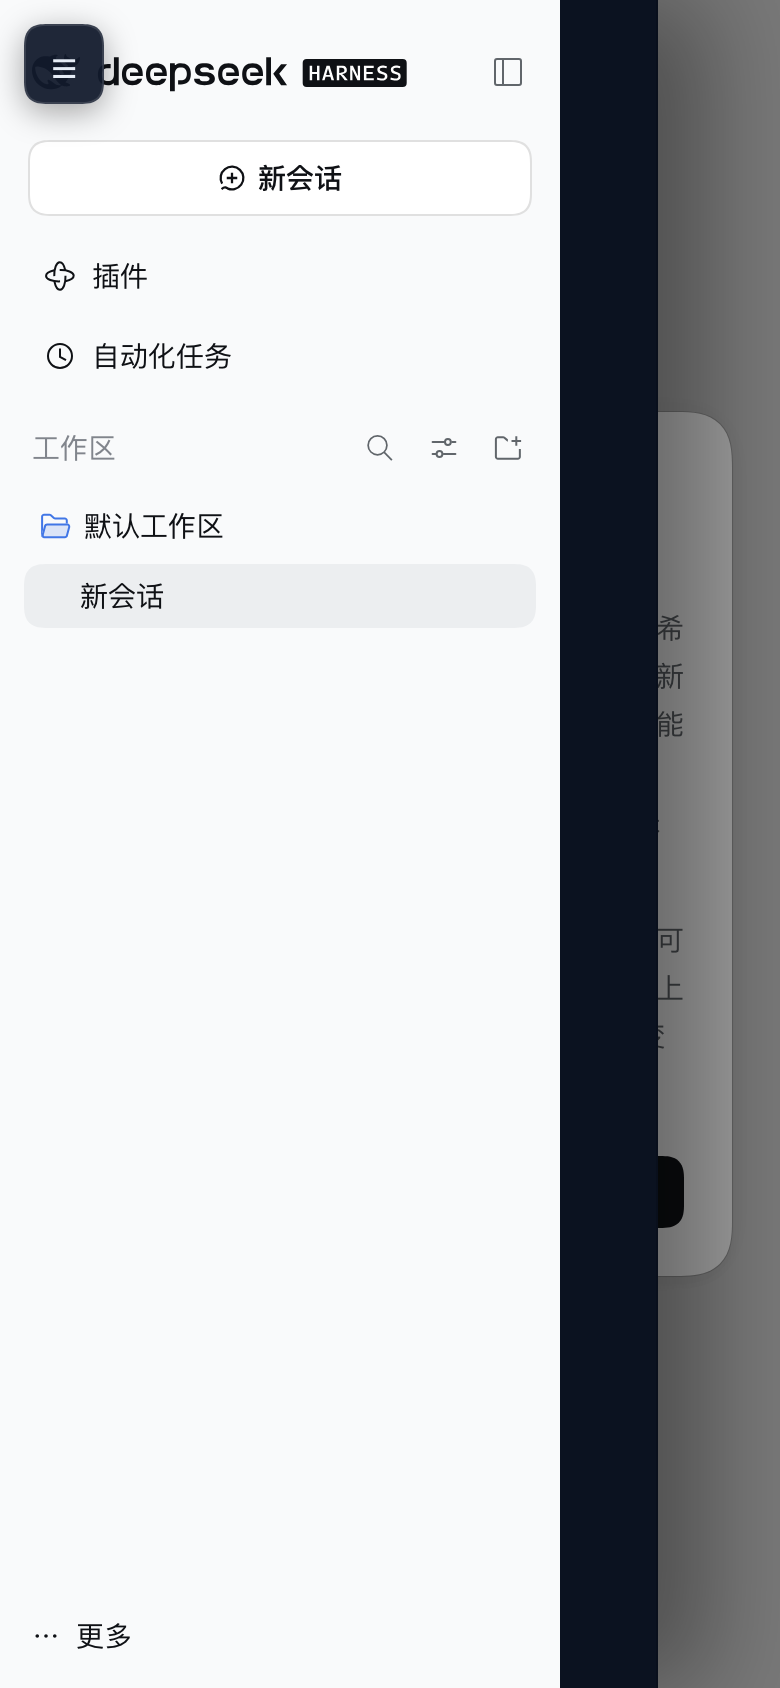
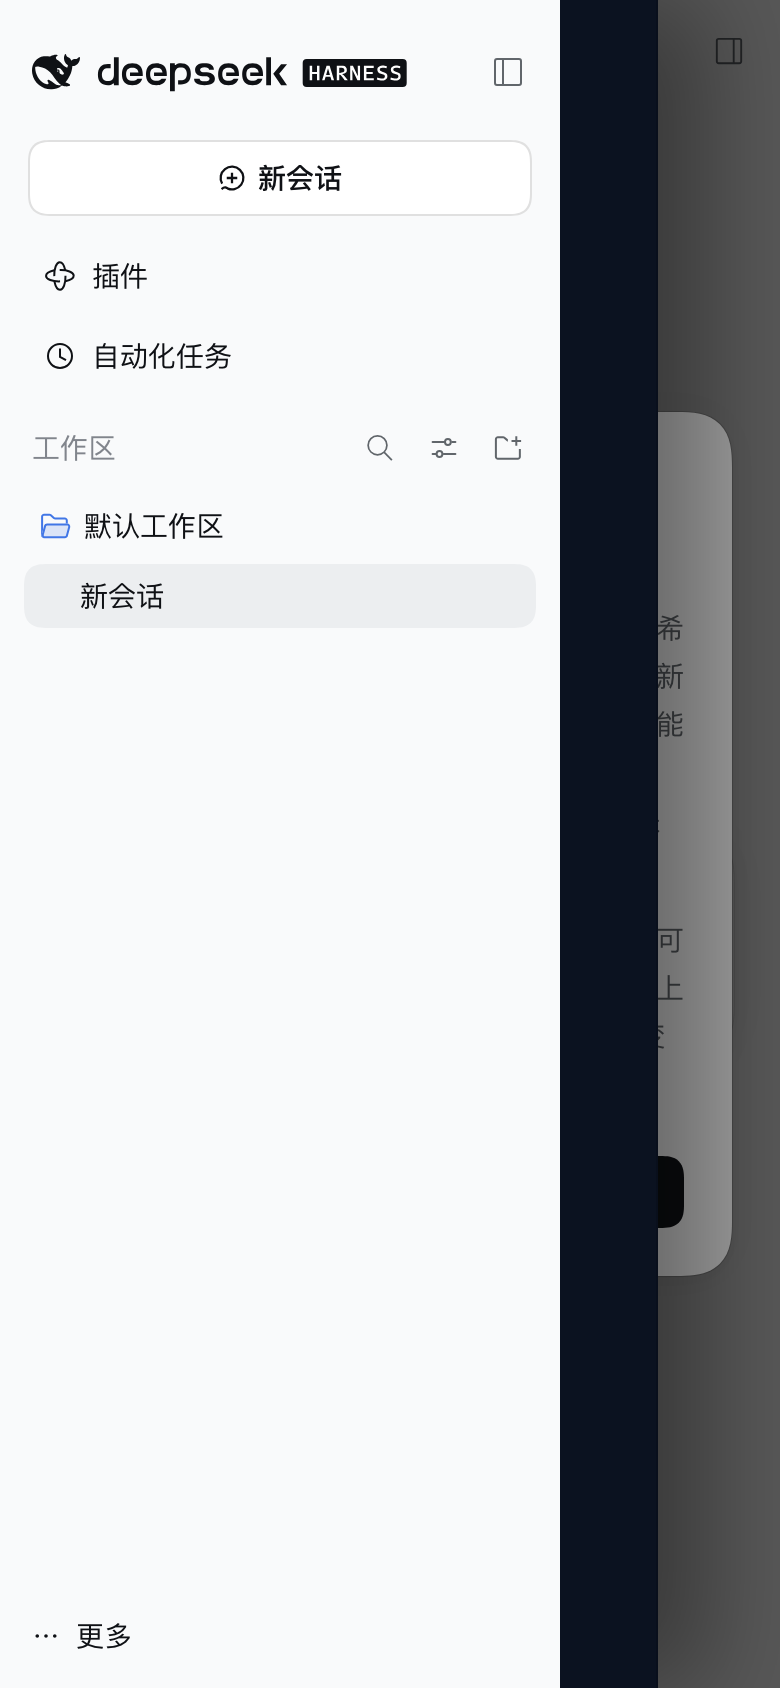
fix(app): DOM-ready mobile drawer injection, mobile single-column layout; home screen verified on iPhone

Changed region(s): [[0.8308, 0.0, 1.0, 1.0], [0.0, 0.0, 0.1538, 0.0924]]

diff --git a/dsh-remoteApp/src/lib/mobileWebShell.ts b/dsh-remoteApp/src/lib/mobileWebShell.ts
@@ -6,146 +6,146 @@
  *  2. 点击会话、功能、设置等任意侧栏项后自动收起抽屉，避免"点两次"；
  *  3. 抽屉以覆盖层出现，不挤压内容区宽度。
  *
- * 实现方式：CSS 覆盖 + 轻量 DOM 脚本（不依赖 DSH 内部 React 状态/类名哈希，
- * 只用 CSS Modules 类名的稳定后缀匹配）。若 DSH 后续改版导致选择器失效，
- * 最坏退化为普通桌面侧栏，不会影响 WebView 正常加载。
+ * 关键：脚本通过 WKUserScript `.atDocumentStart` 注入，执行时 document.body 还不存在，
+ * 因此必须等 DOMContentLoaded / body 可用后再初始化（之前版本在这里静默失败）。
+ *
+ * 选择器只用 DSH CSS Modules 类名的稳定后缀（如 _sidebarCol），不依赖哈希前缀。
+ * 若 DSH 改版选择器失效，最坏退化为普通桌面侧栏，不影响页面加载。
  */
 
-function mobileWebShellRuntime(): void {
-  const html = document.documentElement;
-  const DRAWER_CLASS = 'dsh-mobile-drawer-open';
-  const STYLE_ID = 'dsh-mobile-shell-style';
+export const MOBILE_WEB_SHELL_JS = String.raw`
+(function () {
+  if (window.__dshMobileShellInstalled) return;
+  window.__dshMobileShellInstalled = true;
 
-  if (document.getElementById(STYLE_ID)) return;
+  var DRAWER_CLASS = 'dsh-mobile-drawer-open';
+  var STYLE_ID = 'dsh-mobile-shell-style';
 
-  const style = document.createElement('style');
-  style.id = STYLE_ID;
-  style.textContent = `
-    @media (max-width: 760px) {
-      [class*="_sidebarCol"] {
-        position: fixed !important;
-        left: 0 !important;
-        top: 0 !important;
-        bottom: 0 !important;
-        width: min(84vw, 340px) !important;
-        max-width: 340px !important;
-        z-index: 9000 !important;
-        transform: translateX(-102%);
-        transition: transform 220ms ease;
-        box-shadow: 24px 0 48px rgba(0,0,0,0.35);
-        background: #0b1220 !important;
-        overflow: visible !important;
-      }
-      html.${DRAWER_CLASS} [class*="_sidebarCol"] {
-        transform: translateX(0) !important;
-      }
-      html.${DRAWER_CLASS} [class*="_centerCol"] {
-        filter: brightness(0.72);
-      }
-      .dsh-mobile-backdrop {
-        position: fixed; inset: 0; z-index: 8999;
-        background: rgba(0,0,0,0.38);
-        opacity: 0; pointer-events: none;
-        transition: opacity 200ms ease;
-      }
-      html.${DRAWER_CLASS} .dsh-mobile-backdrop { opacity: 1; pointer-events: auto; }
-      .dsh-mobile-fab {
-        position: fixed; left: 12px; top: 12px; z-index: 9001;
-        width: 40px; height: 40px; border-radius: 12px; border: 1px solid rgba(255,255,255,0.12);
-        background: rgba(17,26,44,0.94); color: #e6edf7; font-size: 19px; line-height: 1;
-        display: flex; align-items: center; justify-content: center;
-        box-shadow: 0 4px 16px rgba(0,0,0,0.35);
-      }
-      html.${DRAWER_CLASS} .dsh-mobile-fab { display: none !important; }
+  function init() {
+    if (!document.body || !document.head) {
+      setTimeout(init, 50);
+      return;
     }
-  `;
-  document.head.appendChild(style);
+    if (document.getElementById(STYLE_ID)) return;
 
-  const backdrop = document.createElement('div');
-  backdrop.className = 'dsh-mobile-backdrop';
-  const fab = document.createElement('button');
-  fab.className = 'dsh-mobile-fab';
-  fab.type = 'button';
-  fab.setAttribute('aria-label', '打开侧栏');
-  fab.textContent = '☰';
-  fab.style.display = 'none';
-  document.body.appendChild(backdrop);
-  document.body.appendChild(fab);
+    var style = document.createElement('style');
+    style.id = STYLE_ID;
+    style.textContent = [
+      '@media (max-width: 760px) {',
+      '  [class*="_sidebarCol"] {',
+      '    position: fixed !important; left: 0 !important; top: 0 !important; bottom: 0 !important;',
+      '    width: min(84vw, 340px) !important; max-width: 340px !important;',
+      '    z-index: 9000 !important; transform: translateX(-102%);',
+      '    transition: transform 220ms ease;',
+      '    box-shadow: 24px 0 48px rgba(0,0,0,0.35);',
+      '    background: #0b1220 !important; overflow: visible !important;',
+      '  }',
+      '  html.' + DRAWER_CLASS + ' [class*="_sidebarCol"] { transform: translateX(0) !important; }',
+      // DSH 用 CSS grid（sidebar, center, rightbar）。sidebar 改为 fixed 后会脱离 grid，
+      // 导致 center 落到 56px 的第一列（内容被挤成竖排）。手机端直接改成单列布局。
+      '  [class*="_frame"] { display: block !important; }',
+      '  [class*="_centerCol"] { width: 100% !important; height: 100% !important; }',
+      '  [class*="_rightbarCol"] { display: none !important; }',
+      '  html.' + DRAWER_CLASS + ' [class*="_centerCol"] { filter: brightness(0.72); }',
+      '  .dsh-mobile-backdrop {',
+      '    position: fixed; inset: 0; z-index: 8999; background: rgba(0,0,0,0.38);',
+      '    opacity: 0; pointer-events: none; transition: opacity 200ms ease;',
+      '  }',
+      '  html.' + DRAWER_CLASS + ' .dsh-mobile-backdrop { opacity: 1; pointer-events: auto; }',
+      '  .dsh-mobile-fab {',
+      '    position: fixed; left: 12px; top: 12px; z-index: 9001;',
+      '    width: 40px; height: 40px; border-radius: 12px;',
+      '    border: 1px solid rgba(255,255,255,0.12);',
+      '    background: rgba(17,26,44,0.94); color: #e6edf7;',
+      '    font-size: 19px; line-height: 1;',
+      '    display: flex; align-items: center; justify-content: center;',
+      '    box-shadow: 0 4px 16px rgba(0,0,0,0.35);',
+      '  }',
+      '  html.' + DRAWER_CLASS + ' .dsh-mobile-fab { display: none !important; }',
+      '}',
+    ].join('\n');
+    document.head.appendChild(style);
 
-  const isMobile = () => window.innerWidth <= 760;
-  const sidebar = () => document.querySelector('[class*="_sidebarCol"]') as HTMLElement | null;
-  const isOpen = () => html.classList.contains(DRAWER_CLASS);
+    var backdrop = document.createElement('div');
+    backdrop.className = 'dsh-mobile-backdrop';
+    var fab = document.createElement('button');
+    fab.className = 'dsh-mobile-fab';
+    fab.type = 'button';
+    fab.setAttribute('aria-label', '打开侧栏');
+    fab.textContent = '☰';
+    fab.style.display = 'none';
+    document.body.appendChild(backdrop);
+    document.body.appendChild(fab);
 
-  function closeDrawer(): void {
-    html.classList.remove(DRAWER_CLASS);
-  }
-
-  function openDrawer(): void {
-    const bar = sidebar();
-    if (bar) {
-      // DSH 侧栏初始可能是折叠图标栏；打开抽屉时模拟点击它自己的展开按钮。
-      const collapsed = bar.querySelector('[class*="_collapsed"]');
-      const toggle = bar.querySelector('[class*="_toggle"]') as HTMLElement | null;
-      if (collapsed && toggle) {
-        try { toggle.click(); } catch { /* ignore */ }
+    function isMobile() { return window.innerWidth <= 760; }
+    function sidebar() { return document.querySelector('[class*="_sidebarCol"]'); }
+    function isOpen() { return document.documentElement.classList.contains(DRAWER_CLASS); }
+    function closeDrawer() { document.documentElement.classList.remove(DRAWER_CLASS); }
+    function openDrawer() {
+      var bar = sidebar();
+      if (bar) {
+        var collapsed = bar.querySelector('[class*="_collapsed"]');
+        var toggle = bar.querySelector('[class*="_toggle"]');
+        if (collapsed && toggle) { try { toggle.click(); } catch (e) {} }
       }
+      document.documentElement.classList.add(DRAWER_CLASS);
     }
-    html.classList.add(DRAWER_CLASS);
-  }
+    function refresh() {
+      if (!isMobile()) { closeDrawer(); fab.style.display = 'none'; return; }
+      fab.style.display = isOpen() ? 'none' : 'flex';
+    }
 
-  function toggleDrawer(): void {
-    if (isOpen()) closeDrawer();
-    else openDrawer();
-  }
+    fab.addEventListener('click', function (event) {
+      event.preventDefault(); event.stopPropagation(); openDrawer();
+    });
+    backdrop.addEventListener('click', function () { closeDrawer(); });
 
-  fab.addEventListener('click', (event) => { event.preventDefault(); event.stopPropagation(); openDrawer(); });
-  backdrop.addEventListener('click', () => closeDrawer());
+    // 侧栏内任意可交互项：导航/打开后自动收起抽屉。
+    document.addEventListener('click', function (event) {
+      if (!isOpen()) return;
+      var target = event.target;
+      if (!target) return;
+      var bar = sidebar();
+      if (!bar || !bar.contains(target)) return;
+      if (target.closest('[class*="_toggle"]')) return;
+      window.setTimeout(closeDrawer, 120);
+    }, true);
 
-  // 侧栏内任意可交互项：跳转/打开后自动收起抽屉。
-  document.addEventListener('click', (event) => {
-    if (!isOpen()) return;
-    const target = event.target as HTMLElement | null;
-    if (!target) return;
-    const bar = sidebar();
-    if (!bar || !bar.contains(target)) return;
-    if (target.closest('[class*="_toggle"]')) return;
-    window.setTimeout(closeDrawer, 120);
-  }, true);
+    // 左边缘右滑打开 / 抽屉上左滑关闭。
+    var touchStartX = 0;
+    var touchStartY = 0;
+    document.addEventListener('touchstart', function (event) {
+      var touch = event.touches && event.touches[0];
+      if (!touch) return;
+      touchStartX = touch.clientX;
+      touchStartY = touch.clientY;
+    }, { passive: true });
+    document.addEventListener('touchend', function (event) {
+      var touch = event.changedTouches && event.changedTouches[0];
+      if (!touch || !isMobile()) return;
+      var dx = touch.clientX - touchStartX;
+      var dy = touch.clientY - touchStartY;
+      if (Math.abs(dx) < 60 || Math.abs(dy) > 80) return;
+      if (!isOpen() && touchStartX < 24 && dx > 0) openDrawer();
+      else if (isOpen() && dx < 0) closeDrawer();
+    }, { passive: true });
 
-  // 左边缘右滑打开 / 抽屉上左滑关闭。
-  let touchStartX = 0;
-  let touchStartY = 0;
-  document.addEventListener('touchstart', (event) => {
-    const touch = event.touches[0];
-    if (!touch) return;
-    touchStartX = touch.clientX;
-    touchStartY = touch.clientY;
-  }, { passive: true });
-  document.addEventListener('touchend', (event) => {
-    const touch = event.changedTouches[0];
-    if (!touch || !isMobile()) return;
-    const dx = touch.clientX - touchStartX;
-    const dy = touch.clientY - touchStartY;
-    if (Math.abs(dx) < 60 || Math.abs(dy) > 80) return;
-    if (!isOpen() && touchStartX < 24 && dx > 0) openDrawer();
-    else if (isOpen() && dx < 0) closeDrawer();
-  }, { passive: true });
-
-  const refresh = () => {
-    if (!isMobile()) { closeDrawer(); fab.style.display = 'none'; return; }
-    fab.style.display = isOpen() ? 'none' : 'flex';
-  };
-  window.addEventListener('resize', refresh);
-  refresh();
-
-  // SPA 会重渲染 sidebar/body；确保注入节点仍在。
-  const observer = new MutationObserver(() => {
-    if (!document.body.contains(fab)) document.body.appendChild(fab);
-    if (!document.body.contains(backdrop)) document.body.appendChild(backdrop);
+    window.addEventListener('resize', refresh);
     refresh();
-  });
-  observer.observe(document.body, { childList: true, subtree: false });
-}
 
-/** 传给 native/RN WebView 的 `injectedJavaScript`。 */
-export const MOBILE_WEB_SHELL_JS = `(${mobileWebShellRuntime.toString()})();`;
+    // SPA 重渲染时保持注入节点存在。
+    var observer = new MutationObserver(function () {
+      if (!document.body.contains(fab)) document.body.appendChild(fab);
+      if (!document.body.contains(backdrop)) document.body.appendChild(backdrop);
+      refresh();
+    });
+    observer.observe(document.body, { childList: true, subtree: false });
+  }
+
+  if (document.readyState === 'loading') {
+    document.addEventListener('DOMContentLoaded', init, { once: true });
+  } else {
+    init();
+  }
+})();
+`;

diff --git a/dsh-remoteService/docs/POC-REPORT.md b/dsh-remoteService/docs/POC-REPORT.md
@@ -10,6 +10,7 @@
 | # | POC | 状态 | 证据 |
 |---|---|---|---|
 | 1 | WebView mTLS | ✅ **macOS WKWebView 已验证**（`npm run poc:webview`：真实 WKWebView 出示客户端证书，服务器确认 `CN=dsh-poc-device`）；⏳ iOS 真机待 Xcode | `poc/webview-mtls/`（Swift 测试工具 + 测试 CA/HTTPS server）；与 iOS 同一套 `WKNavigationDelegate.didReceive challenge` API |
+| 1.33 | 手机抽屉修复（真机反馈） | ✅ 根因：WKUserScript 在 `documentStart` 注入时 `document.body` 尚不存在，旧脚本静默失败；同时 DSH grid 在 sidebar `position:fixed` 后把 center 挤到 56px。已改为 DOM-ready 初始化 + 字面量 JS + `frame{display:block}` / center 100% / rightbar 隐藏；Chrome 移动视口验证抽屉/自动关闭/布局正常；Release 已安装（Home 真机截图 `mockups/ios-home.png`） | `mobileWebShell.ts`、`mockups/ios-home.png` |
 | 1.32 | App 多主机 Home + 手机侧栏抽屉 | ✅ HomeScreen 列出多台已配对主机（v2 存储，自动迁移旧单连接），WebView 返回 → Home；设备证书按 host scope 存储；注入 mobile shell：DSH 侧栏变为离屏抽屉（汉堡/左缘滑开），点击侧栏项自动收起；Chrome 移动视口验证抽屉/自动关闭通过；Release 已构建安装，待解锁 iPhone 目视验收 | `dsh-remoteApp/src/screens/HomeScreen.tsx`、`src/lib/mobileWebShell.ts`、`mockups/mobile-drawer-preview.png` |
 | 1.31 | 移除 expo-dev-client | ✅ `expo-dev-client` 已从 App 依赖移除，重新 prebuild/pod install 后 Release 构建成功；Release 二进制不再包含 DevLauncher/DevMenu 符号，独立安装启动正常（截图 `mockups/ios-release-dsh-ui.png`）；开发改为 `expo start` + Debug 构建 | `dsh-remoteApp/package.json`、`eas.json`、`/tmp/ios-release-nodev.log` |
 | 1.30 | iOS Release 独立运行 | ✅ `xcodebuild -configuration Release` 构建（JS 内嵌 `main.jsbundle`，无 EXDevLauncher 框架）→ 安装、停止 Metro 后启动：无 Expo 开发菜单/调试界面，直接加载真实桌面 DSH；POC 调试 UI 已 `__DEV__` 隐藏；截图 `mockups/ios-release-dsh-ui.png` | `/tmp/ios-release-build.log`、`mockups/ios-release-dsh-ui.png` |
